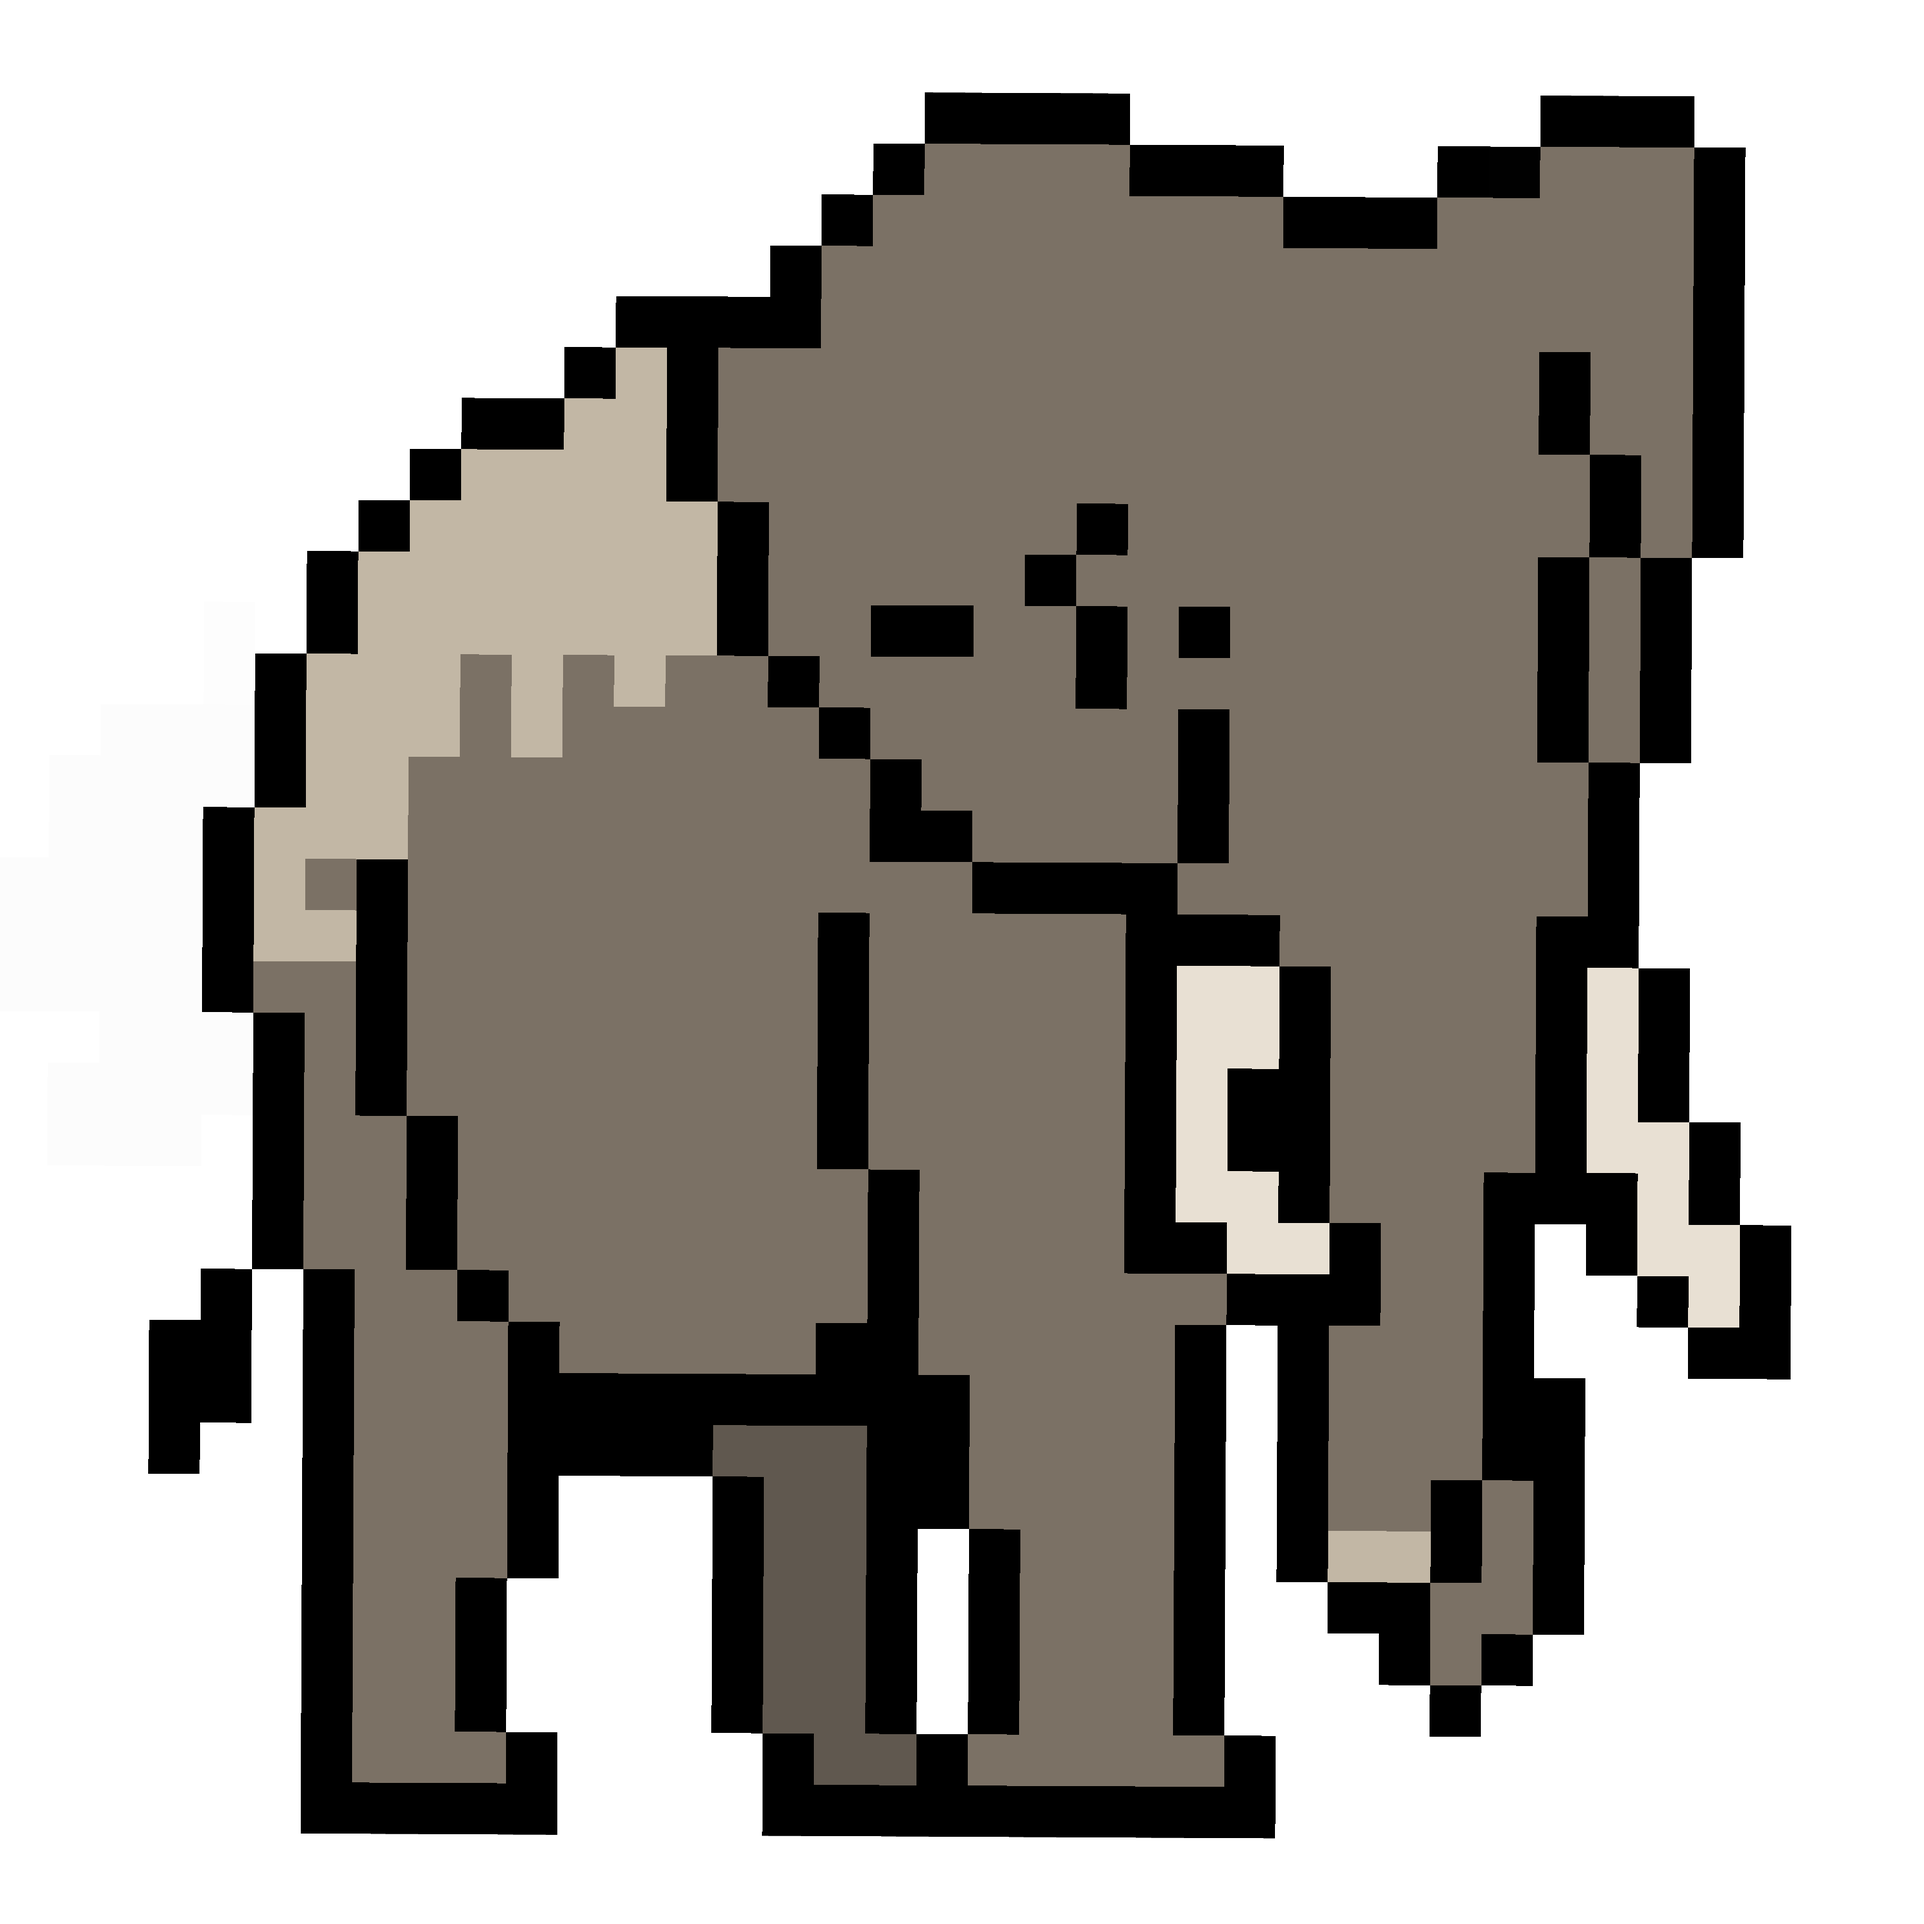
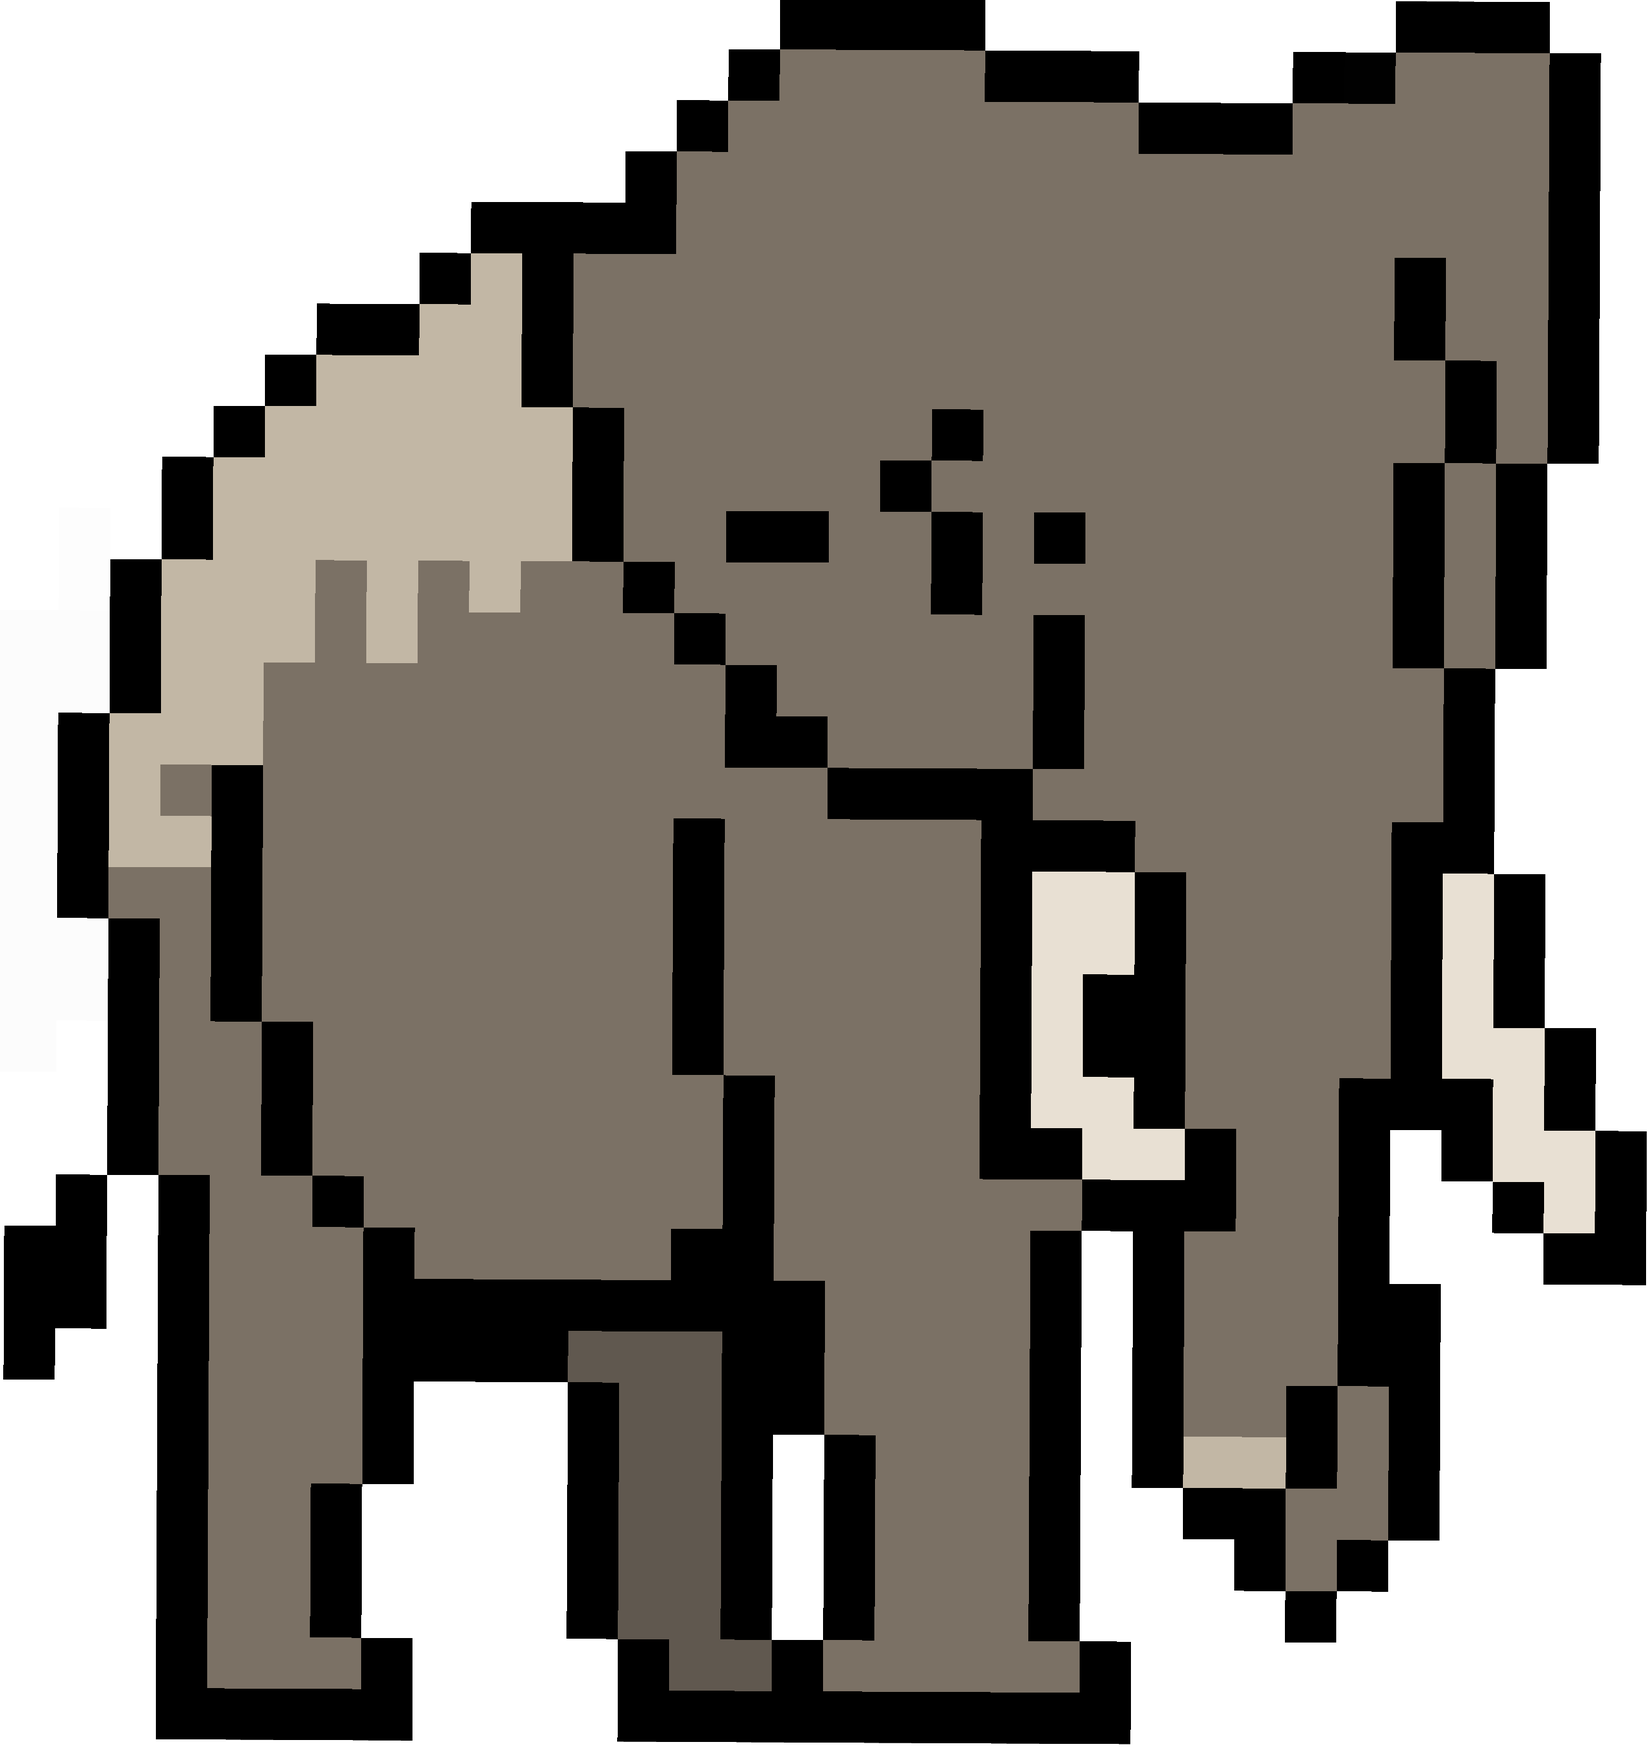
modify drawRiddle and crop character images

diff --git a/src/game/GameManager.java b/src/game/GameManager.java
@@ -154,20 +154,20 @@ public class GameManager {
         g.fillRect(x, y, cardW, cardH);
 
         // number of attempts
-        String attempts = "Atempts:" + riddle.getCountAttempts() + "/" + Constants.MAX_ATTEMPTS;
-        g.setColor(Constants.BLACK);
-        g.setFont(Constants.ATTEMPTS_FONT);
-        g.drawString(attempts, x + cardW - 120, y + 24);
-
         int dot = y + 270;
         int spacing = 14;
-        int start = panelWidth / 2 - (Constants.MAX_ATTEMPTS * spacing);
+        int start = x + cardW/ 2 - (Constants.MAX_ATTEMPTS * spacing)/2;
         for (int i = 0; i < Constants.MAX_ATTEMPTS; i++) {
             g.setColor(i < riddle.getCountAttempts()
                     ? (Constants.WHITE) // used
                     : (Constants.GRAY)); // remaining
             g.fillOval(start + i * spacing, dot, 8, 8);
         }
+
+        String attempts = "Atempts:" + riddle.getCountAttempts() + "/" + Constants.MAX_ATTEMPTS;
+        g.setColor(Constants.BLACK);
+        g.setFont(Constants.ATTEMPTS_FONT);
+        drawCentered(g, attempts, x + cardW/2, dot + 20);
 
         // question
         g.setColor(Constants.BLACK);
